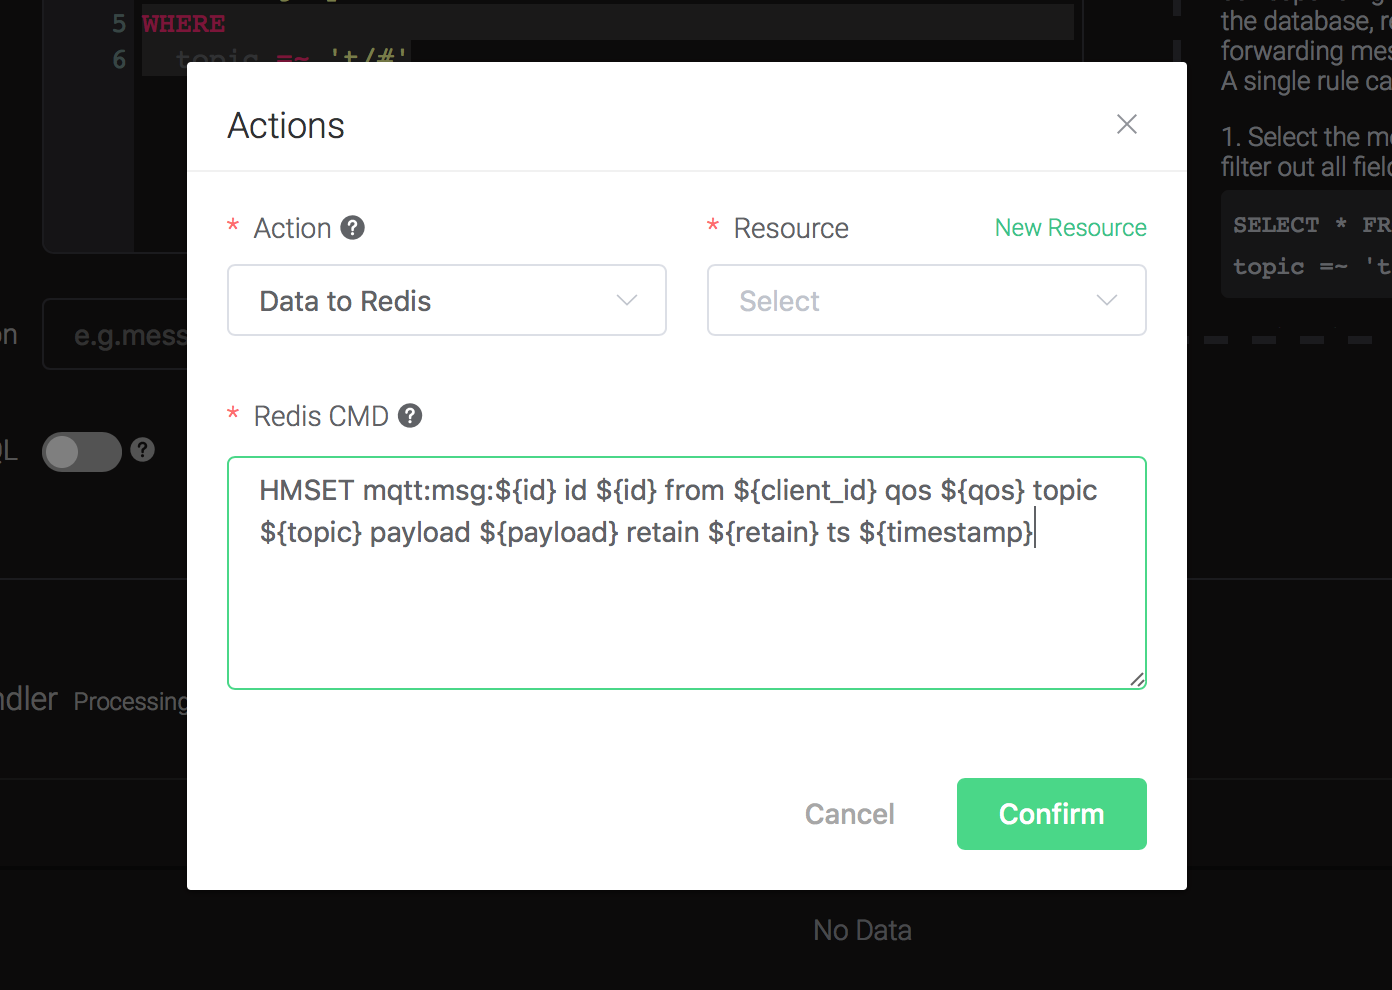
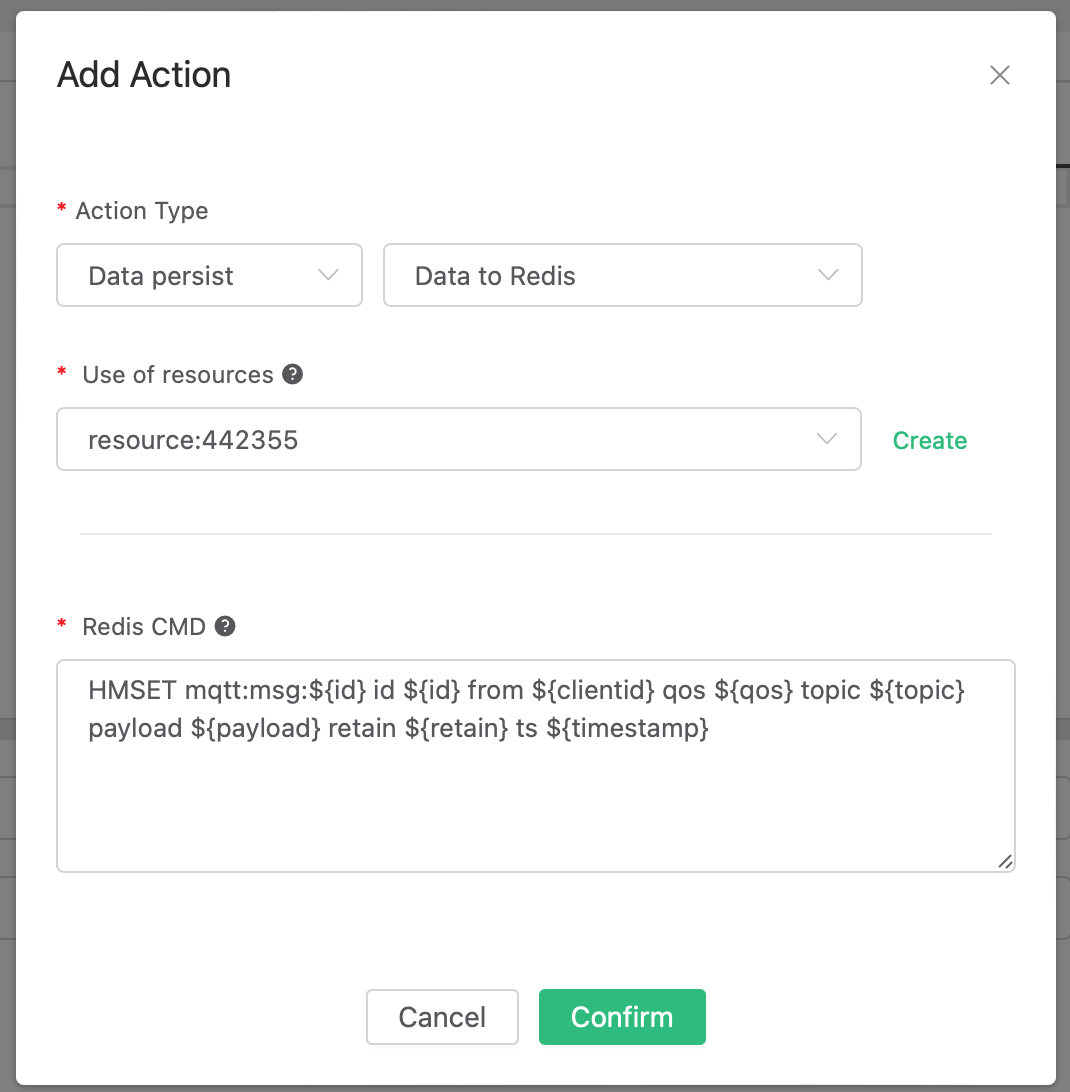
fix: change client_id to clientid

diff --git a/en_US/rule/rule-create.md b/en_US/rule/rule-create.md
@@ -1,18 +1,18 @@
-# Create rules 
+# Create rules
 
-## Create rules using Dashboard 
+## Create rules using Dashboard
 ### Create WebHook rules
-0.  Setup a Web Service, here we setup a simple web service using the linux tool `nc`: 
+0.  Setup a Web Service, here we setup a simple web service using the linux tool `nc`:
 
    ```bash
    $ while true; do echo -e "HTTP/1.1 200 OK\n\n $(date)" | nc -l 127.0.0.1 8081; done;
    ```
 
-1. Create a rule: 
+1. Create a rule:
 
-   Go to [EMQX Dashboard](http://127.0.0.1:18083/#/rules), select the “rule” tab on the menu to the left. 
+   Go to [EMQX Dashboard](http://127.0.0.1:18083/#/rules), select the “rule” tab on the menu to the left.
 
-    Select “message.publish”, then type in the following SQL: 
+    Select “message.publish”, then type in the following SQL:
 
    ```sql
       SELECT
@@ -27,13 +27,13 @@
 
 2. Bind an action:
 
-    Click on the “+ Add” button under “Action Handler”, and then select “Data to Web Server” in the pop-up dialog window. 
+    Click on the “+ Add” button under “Action Handler”, and then select “Data to Web Server” in the pop-up dialog window.
 
   ![image](../assets/webhook-action-1.png)
 
 3. Bind a resource to the action:
 
-   Since the dropdown list “Resource” is empty for now, we create a new resource by clicking on the “New Resource” to the top right: 
+   Since the dropdown list “Resource” is empty for now, we create a new resource by clicking on the “New Resource” to the top right:
 
    ![image](../assets/webhook-action-2.png)
 
@@ -43,11 +43,11 @@
 
 4. Configure the resource:
 
-    Fill in the “Request URL” and “Request Header”(Optional): 
+    Fill in the “Request URL” and “Request Header”(Optional):
 
    http://127.0.0.1:8081
 
-    And click on the “Testing Connection” button to make sure the connection can be created successfully, and then click on the “Create” button. 
+    And click on the “Testing Connection” button to make sure the connection can be created successfully, and then click on the “Create” button.
 
    ![image](../assets/webhook-resource-2.png)
 
@@ -55,11 +55,11 @@
 
    ![image](../assets/webhook-action-3.png)
 
-6.  Back to the creating rule page, then click on “Create” button. The rule we created will be show in the rule list 
+6.  Back to the creating rule page, then click on “Create” button. The rule we created will be show in the rule list
 
    ![image](../assets/webhook-rule-create.png)
 
-   We have finished, testing the rule by sending an MQTT message to emqx: 
+   We have finished, testing the rule by sending an MQTT message to emqx:
 
    ![image](../assets/webhook-rulelist-1.png)
 
@@ -76,8 +76,8 @@
   ![image](../assets/webhook-result-1.png)
 
 ## Create Simple Rules using CLI
-### Create Inspect Rules  
-Create a rule for testing: print the content of the message and all the args of the action, when a MQTT message is sent to topic ‘t/a’. 
+### Create Inspect Rules
+Create a rule for testing: print the content of the message and all the args of the action, when a MQTT message is sent to topic ‘t/a’.
 
 - The filter SQL is: SELECT \* FROM "message.publish" WHERE topic = 't/a';
 - The action is: “print the content of the message and all the args of the action”, the action we need is ‘inspect’.
@@ -91,22 +91,22 @@ $ ./bin/emqx_ctl rules create \
 Rule rule:803de6db created
 ```
 
- The CLI above created a rule with ID=’Rule rule:803de6db’. 
+ The CLI above created a rule with ID=’Rule rule:803de6db’.
 
- The first two args are mandatory: 
+ The first two args are mandatory:
 
 - SQL: SELECT \* FROM "message.publish" WHERE topic = 't/a'
 - Action List: [{“name”:”inspect”, “params”: {“a”: 1}}]. Action List is of type JSON Array. “name” is the name of the action, “params” is the parameters of the action. Note that the action `inspect` does not need a resource.
 
- The last arg is an optional description of the rule: ‘Rule for debug’. 
+ The last arg is an optional description of the rule: ‘Rule for debug’.
 
-If a MQTT message “hello” is sent to topic ‘t/a’, the rule “Rule rule:803de6db” will be matched, and then action “inspect” will be triggered, the following info will be printed to the emqx console: 
+If a MQTT message “hello” is sent to topic ‘t/a’, the rule “Rule rule:803de6db” will be matched, and then action “inspect” will be triggered, the following info will be printed to the emqx console:
 
 ```bash
 $ tail -f log/erlang.log.1
 
 (emqx@127.0.0.1)1> [inspect]
-    Selected Data: #{client_id => <<"shawn">>,event => 'message.publish',
+    Selected Data: #{clientid => <<"shawn">>,event => 'message.publish',
                       flags => #{dup => false,retain => false},
                       id => <<"5898704A55D6AF4430000083D0002">>,
                       payload => <<"hello">>,
@@ -131,8 +131,8 @@ $ tail -f log/erlang.log.1
 - `Envs` is the environment variables that can be used internally in the action.
 - `Action Init Params` is the params we passed to the action.
 
-### Create WebHook Rule  
-Create a rule: Forward all the messages that send from client_id=’Steven’, to the Web Server at ‘[http://127.0.0.1:9910](http://127.0.0.1:9910/)’: 
+### Create WebHook Rule
+Create a rule: Forward all the messages that send from clientid=’Steven’, to the Web Server at ‘[http://127.0.0.1:9910](http://127.0.0.1:9910/)’:
 
 - The filter SQL: SELECT username as u, payload FROM "message.publish" where
   u='Steven';
@@ -140,15 +140,15 @@ Create a rule: Forward all the messages that send from client_id=’Steven’, t
 - Resource Type: web_hook;
 - Resource: “The WebHook resource at ‘[http://127.0.0.1:9910](http://127.0.0.1:9910/)’”.
 
-0.  Create a simpile Web service using linux tool `nc`: 
+0.  Create a simpile Web service using linux tool `nc`:
 
     ```bash
     $ while true; do echo -e "HTTP/1.1 200 OK\n\n $(date)" | nc -l 127.0.0.1 9910; done;
     ```
 
-1.  Create a resource of resource type “WebHook”, and configure the url: 
+1.  Create a resource of resource type “WebHook”, and configure the url:
 
-    1).  List all available resource types, make sure ‘web_hook’ exists: 
+    1).  List all available resource types, make sure ‘web_hook’ exists:
 
     ```bash
     $ ./bin/emqx_ctl resource-types list
@@ -157,7 +157,7 @@ Create a rule: Forward all the messages that send from client_id=’Steven’, t
     ...
     ```
 
-    2).  Create a new resource using resource type ‘web_hook’, configure “url”=”[http://127.0.0.1:9910](http://127.0.0.1:9910/)”: 
+    2).  Create a new resource using resource type ‘web_hook’, configure “url”=”[http://127.0.0.1:9910](http://127.0.0.1:9910/)”:
 
     ```bash
     $ ./bin/emqx_ctl resources create \
@@ -167,11 +167,11 @@ Create a rule: Forward all the messages that send from client_id=’Steven’, t
     Resource resource:691c29ba created
     ```
 
-    Above CLI created a resource with ID=’resource:691c29ba’, the first arg is mandatory - The resource type (web_hook). HTTP method is POST, and an HTTP Header is set: “token”. 
-    
-2.  Create a rule, and bind action ‘data_to_webserver’ to it: 
+    Above CLI created a resource with ID=’resource:691c29ba’, the first arg is mandatory - The resource type (web_hook). HTTP method is POST, and an HTTP Header is set: “token”.
 
-    1).  List all available actions, make sure ‘data_to_webserver’ exists: 
+2.  Create a rule, and bind action ‘data_to_webserver’ to it:
+
+    1).  List all available actions, make sure ‘data_to_webserver’ exists:
 
       ```bash
       $ ./bin/emqx_ctl rule-actions list
@@ -180,20 +180,20 @@ Create a rule: Forward all the messages that send from client_id=’Steven’, t
       ...
       ```
 
-    2).  Create the rule, bind the action data_to_webserver, and bind resource resource:691c29ba to the action via the arg “$resource”: 
-    
+    2).  Create the rule, bind the action data_to_webserver, and bind resource resource:691c29ba to the action via the arg “$resource”:
+
   ```bash
       $ ./bin/emqx_ctl rules create \
         "SELECT username as u, payload FROM \"message.publish\" where u='Steven'" \
         '[{"name":"data_to_webserver", "params": {"$resource":  "resource:691c29ba"}}]' \
         -d "Forward publish msgs from steven to webserver"
-    
+
   rule:26d84768
   ```
 
- Above CLI is simlar to the first Inspect rule, with exception that the resource ‘resource:691c29ba’ is bound to ‘data_to_webserver’. The binding is done by a special arg named ‘$resource’. What the action ‘data_to_webserver’ does is sending messages to the specified web server. 
-    
-3. Now let’s send a message “hello” to an arbitrary topic using username “Steven”, this will trigger the rule we created above, and the Web Server will receive an message and return 200 OK: 
+ Above CLI is simlar to the first Inspect rule, with exception that the resource ‘resource:691c29ba’ is bound to ‘data_to_webserver’. The binding is done by a special arg named ‘$resource’. What the action ‘data_to_webserver’ does is sending messages to the specified web server.
+
+3. Now let’s send a message “hello” to an arbitrary topic using username “Steven”, this will trigger the rule we created above, and the Web Server will receive an message and return 200 OK:
 
   ```bash
   $ while true; do echo -e "HTTP/1.1 200 OK\n\n $(date)" | nc -l 127.0.0.1 9910; done;

diff --git a/zh_CN/rule/rule-create.md b/zh_CN/rule/rule-create.md
@@ -3,7 +3,7 @@
 ### 创建 WebHook 规则
 0. 搭建 Web 服务，这里使用 `nc` 命令做一个简单的Web 服务:
 
-::: tip 
+::: tip
 nc 命令在部分 Linux 操作系统上有问题，无法与 EMQX 发起的 HTTP 请求连接握手成功，第 7 步可能无法正常进行。
 :::
 
@@ -79,7 +79,7 @@ nc 命令在部分 Linux 操作系统上有问题，无法与 EMQX 发起的 HTT
   ![image](../assets/webhook-result-1.png)
 
 ## 通过 CLI 创建简单规则
-### 创建 Inspect 规则 
+### 创建 Inspect 规则
 创建一个测试规则，当有消息发送到 't/a' 主题时，打印消息内容以及动作参数细节。
 
 - 规则的筛选 SQL 语句为: SELECT * FROM "t/a";
@@ -112,7 +112,7 @@ Rule rule:803de6db created
 $ tail -f log/erlang.log.1
 
 (emqx@127.0.0.1)1> [inspect]
-    Selected Data: #{client_id => <<"shawn">>,event => 'message.publish',
+    Selected Data: #{clientid => <<"shawn">>,event => 'message.publish',
                       flags => #{dup => false,retain => false},
                       id => <<"5898704A55D6AF4430000083D0002">>,
                       payload => <<"hello">>,
@@ -138,7 +138,7 @@ $ tail -f log/erlang.log.1
 - `Envs` 是动作内部可以使用的环境变量。
 - `Action Init Params` 是初始化动作的时候，我们传递给动作的参数。
 
-### 创建 WebHook 规则 
+### 创建 WebHook 规则
 创建一个规则，将所有发送自 client\_id='Steven' 的消息，转发到地址为 '<http://127.0.0.1:9910>' 的
 Web 服务器:
 

diff --git a/en_US/rule/backend_redis.md b/en_US/rule/backend_redis.md
@@ -42,16 +42,13 @@ Two parameters is required by action "Data to Redis":
 triggered. In this example we'll insert a message into redis, so type in the following command:
 
 ```bash
-HMSET mqtt:msg:${id} id ${id} from ${client_id} qos ${qos} topic ${topic} payload ${payload} retain ${retain} ts ${timestamp}
+HMSET mqtt:msg:${id} id ${id} from ${clientid} qos ${qos} topic ${topic} payload ${payload} retain ${retain} ts ${timestamp}
 ```
 
 ![image](./assets/rule-engine/redis_action_1.png)
 
 2). Bind a resource to the action. Since the dropdown list "Resource"
-is empty for now, we create a new resource by clicking on the "New
-Resource" to the top right, and then select "Redis Single Mode":
-
-![image](./assets/rule-engine/redis_action_2.png)
+is empty for now, we create a new resource by clicking on the "Create" to the right, and then select "Redis Single Mode":
 
 Configure the resource:
 ```
@@ -63,8 +60,6 @@ connection can be created successfully, and then click on the
 ![image](./assets/rule-engine/redis_resource_0.png)
 
 Back to the "Actions" dialog, and then click on the "Confirm" button.
-
-![image](./assets/rule-engine/redis_action_3.png)
 
 Back to the creating rule page, then click on "Create" button. The
     rule we created will be show in the rule list:

diff --git a/zh_CN/rule/backend_redis.md b/zh_CN/rule/backend_redis.md
@@ -38,7 +38,7 @@ SELECT * FROM "t/#"
 
 ![image](./assets/rule-engine/redis-resource-0@2x.png)
 
-选择 Redis 单节点模式资源”。
+选择 Redis 单节点模式资源。
 
 填写资源配置:
 
@@ -53,14 +53,12 @@ SELECT * FROM "t/#"
 2). Redis 的命令:
 
 ```bash
-HMSET mqtt:msg:${id} id ${id} from ${client_id} qos ${qos} topic ${topic} payload ${payload} ts ${timestamp}
+HMSET mqtt:msg:${id} id ${id} from ${clientid} qos ${qos} topic ${topic} payload ${payload} ts ${timestamp}
 ```
 
 ![image](./assets/rule-engine/redis-action-1@2x.png)
 
 返回规则创建界面，点击 “新建”。
-
-![image](./assets/rule-engine/redis-rulesql-1@2x.png)
 
 规则已经创建完成，现在发一条数据:
 

diff --git a/en_US/rule/rule-example.md b/en_US/rule/rule-example.md
@@ -56,7 +56,7 @@ triggered, the following info will be printed to the emqx console:
 $ tail -f log/erlang.log.1
 
 (emqx@127.0.0.1)1> [inspect]
-Selected Data: #{client_id => <<"shawn">>,event => 'message.publish',
+Selected Data: #{clientid => <<"shawn">>,event => 'message.publish',
                     flags => #{dup => false,retain => false},
                     id => <<"5898704A55D6AF4430000083D0002">>,
                     payload => <<"hello">>,

diff --git a/zh_CN/rule/rule-example.md b/zh_CN/rule/rule-example.md
@@ -57,7 +57,7 @@ Rule rule:803de6db created
 $ tail -f log/erlang.log.1
 
 (emqx@127.0.0.1)1> [inspect]
-    Selected Data: #{client_id => <<"shawn">>,event => 'message.publish',
+    Selected Data: #{clientid => <<"shawn">>,event => 'message.publish',
                     flags => #{dup => false},
                     id => <<"5898704A55D6AF4430000083D0002">>,
                     payload => <<"hello">>,
